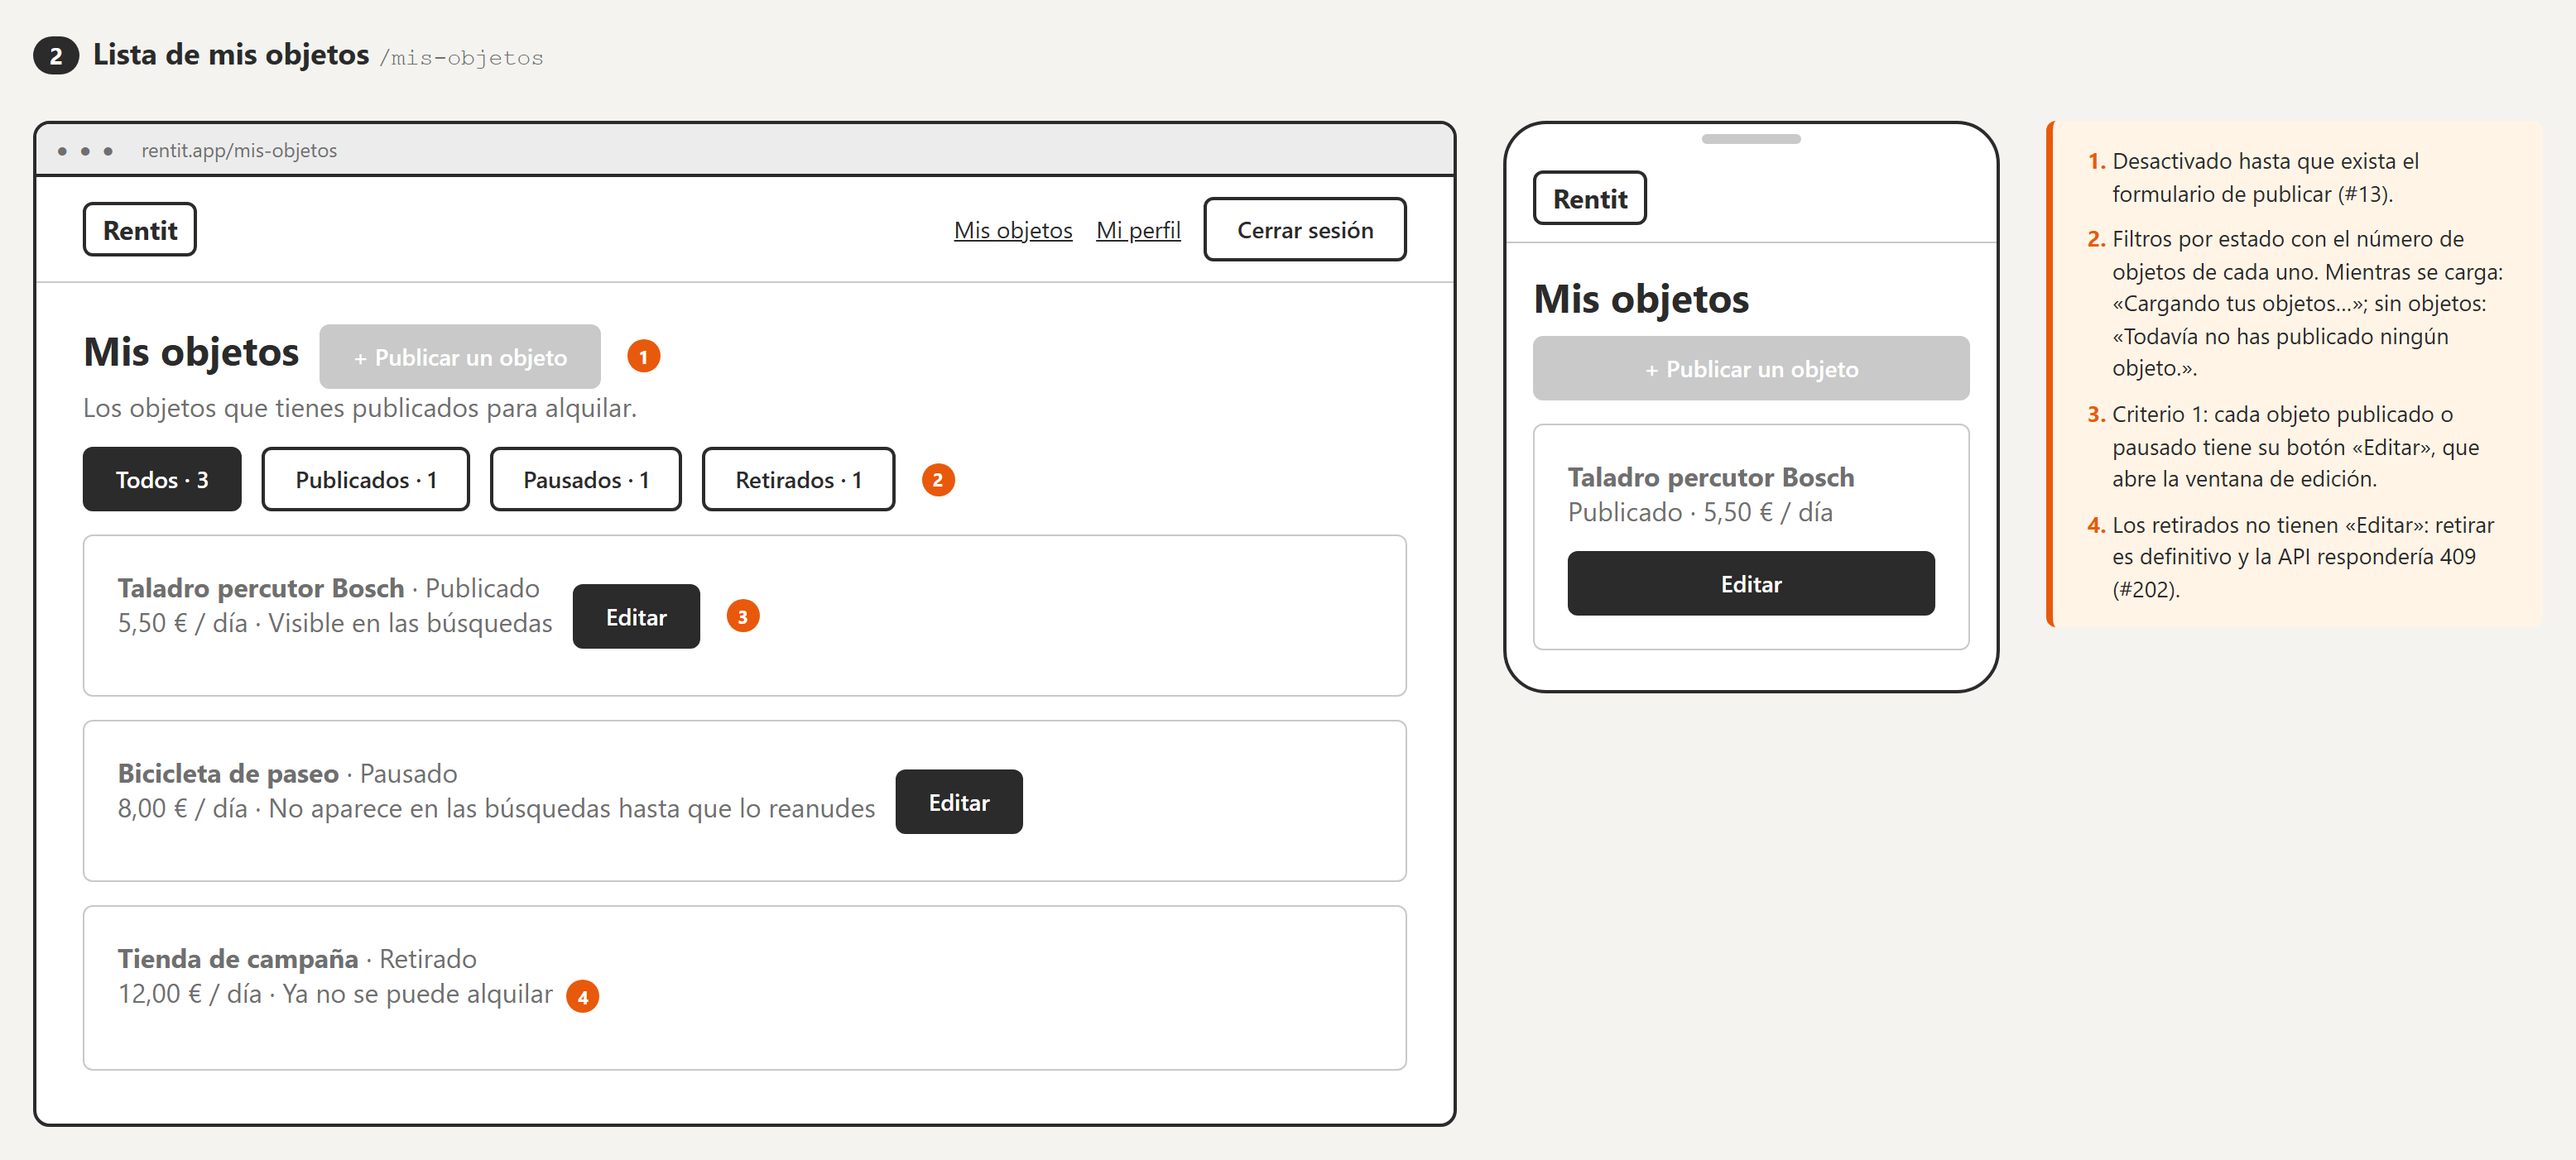
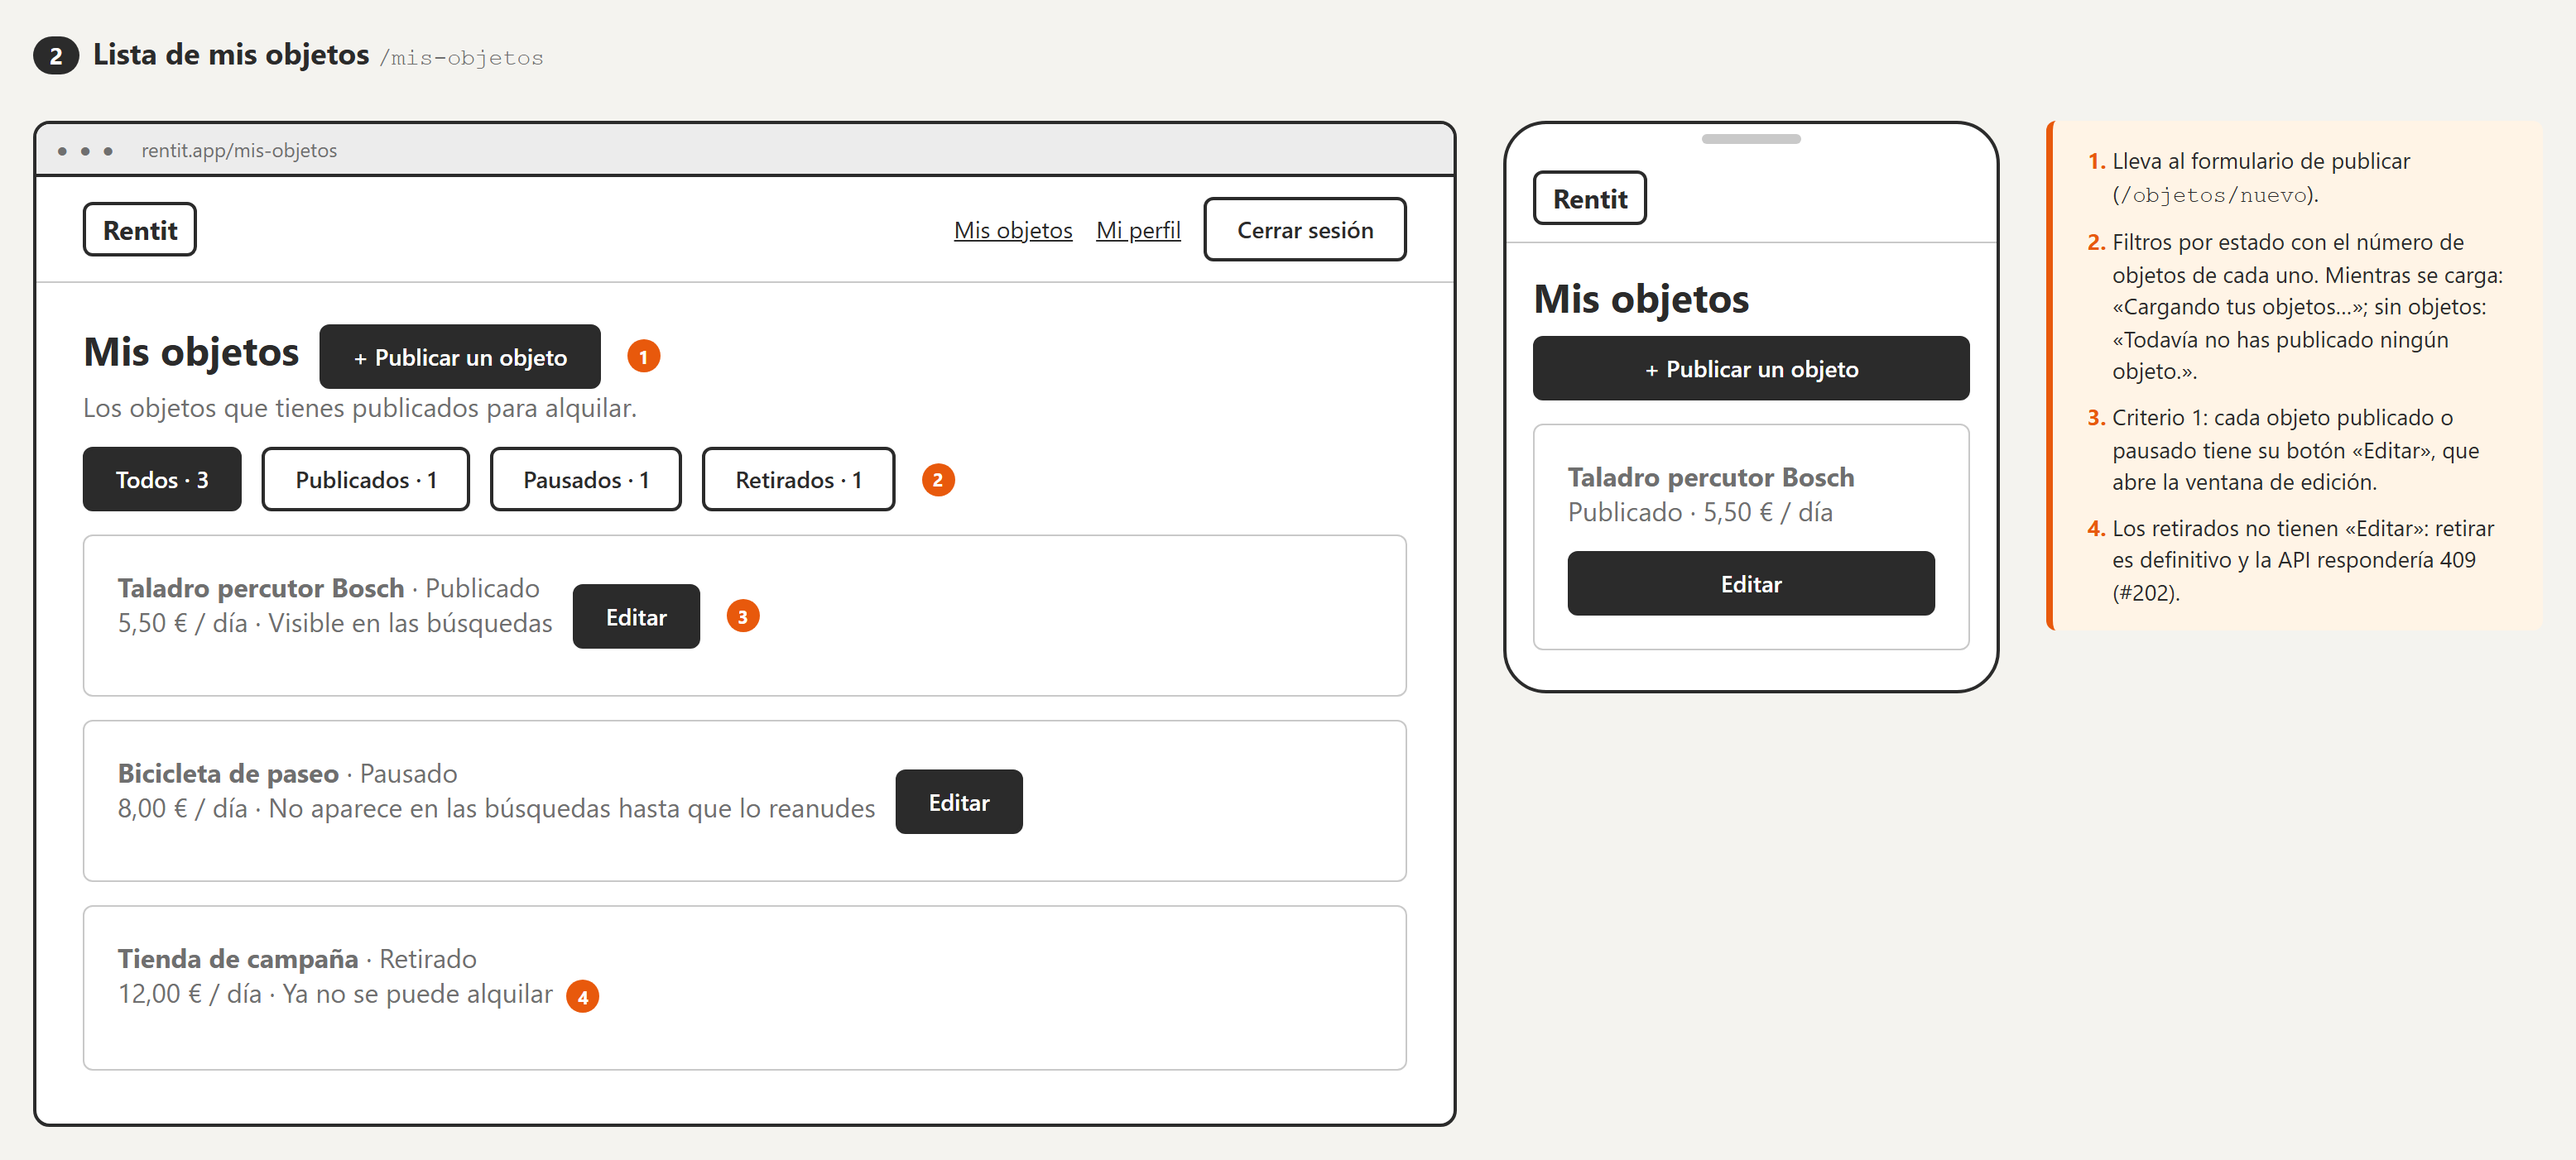
docs(wireframe): «Publicar un objeto» ya está activo en US-02.02 (#240)

Changed region(s): [[0.8104, 0.1227, 0.9663, 0.5214], [0.5922, 0.276, 0.7792, 0.368], [0.1247, 0.276, 0.2494, 0.3374]]

diff --git a/docs/wireframes/US-02.02-editar-objeto/index.html b/docs/wireframes/US-02.02-editar-objeto/index.html
@@ -60,7 +60,7 @@
           <div class="wf-contenido">
             <div class="wf-fila">
               <h3 class="wf-h1">Mis objetos</h3>
-              <span class="wf-boton wf-desactivado">+ Publicar un objeto</span><span class="wf-marca">1</span>
+              <span class="wf-boton">+ Publicar un objeto</span><span class="wf-marca">1</span>
             </div>
             <p class="wf-texto">Los objetos que tienes publicados para alquilar.</p>
             <div class="wf-fila">
@@ -93,7 +93,7 @@
           <nav class="wf-nav"><span class="wf-logo">Rentit</span></nav>
           <div class="wf-contenido">
             <h3 class="wf-h1">Mis objetos</h3>
-            <span class="wf-boton wf-desactivado wf-ancho">+ Publicar un objeto</span>
+            <span class="wf-boton wf-ancho">+ Publicar un objeto</span>
             <p class="wf-texto"></p>
             <div class="wf-tarjeta">
               <p class="wf-texto"><strong>Taladro percutor Bosch</strong><br />Publicado · 5,50 € / día</p>
@@ -103,7 +103,7 @@
         </div>
       </div>
       <ol class="wf-notas">
-        <li>Desactivado hasta que exista el formulario de publicar (#13).</li>
+        <li>Lleva al formulario de publicar (<code>/objetos/nuevo</code>).</li>
         <li>Filtros por estado con el número de objetos de cada uno. Mientras se carga: «Cargando tus objetos…»; sin objetos: «Todavía no has publicado ningún objeto.».</li>
         <li>Criterio 1: cada objeto publicado o pausado tiene su botón «Editar», que abre la ventana de edición.</li>
         <li>Los retirados no tienen «Editar»: retirar es definitivo y la API respondería 409 (#202).</li>
